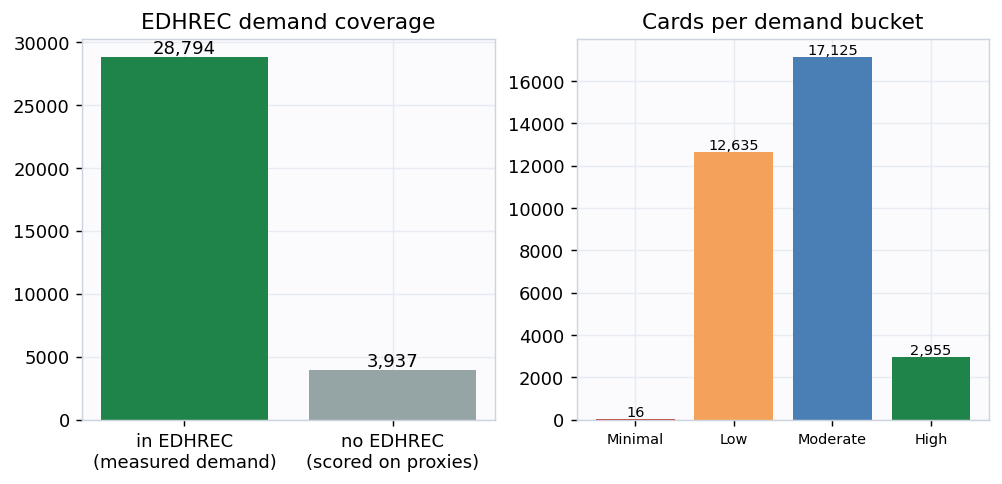
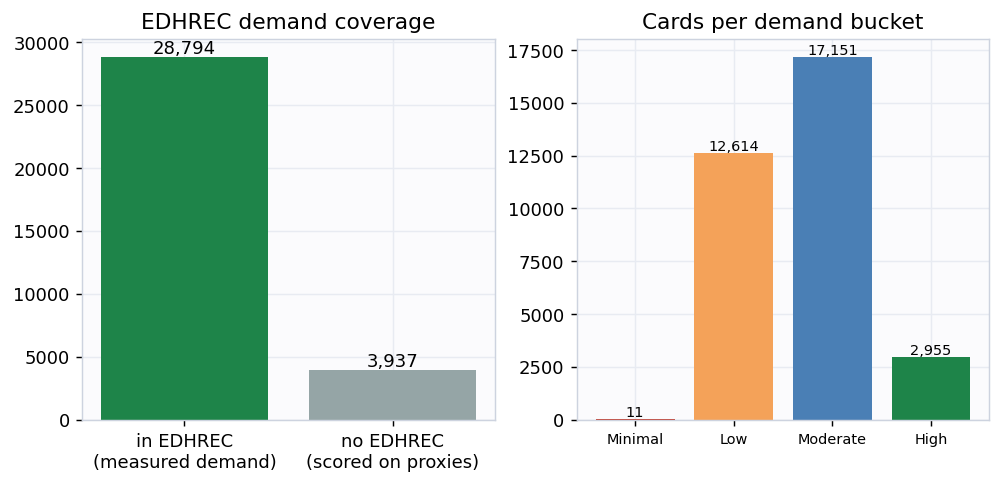
Residual-demand floor for Commander-banned chase cards
Banned cards (Mana Crypt, the Power 9, Jeweled Lotus, Dockside) now keep a discounted
floor from price level and breadth, so their surviving eternal-format and collector
demand lands them at the top of the Moderate band rather than in the basement. Updated
report, predictions, social, and track record. Composite weights and floor coefficients
remain private.

diff --git a/TechnicalPaper/REPORT.md b/TechnicalPaper/REPORT.md
@@ -43,10 +43,11 @@ imputed to a neutral level so it can nudge a score but never sink an established
 
 ## Does the score mean anything? Two honest checks
 
-**1. More-wanted cards command higher prices.** The price LEVEL is deliberately not an input to the
-score (only price appreciation is). Yet when cards are binned by demand decile, the median market
-price climbs steadily with demand (Spearman correlation **0.294**). The index lines
-up with what the market actually pays.
+**1. More-wanted cards command higher prices.** The price LEVEL is not a general input to the score
+(only price appreciation is, plus a residual floor for the small set of Commander-banned cards
+described below). Yet when cards are binned by demand decile, the median market price climbs steadily
+with demand (Spearman correlation **0.297**). The index lines up with what the market
+actually pays.
 
 ![Demand vs price](figures/fig2_demand_vs_price.png)
 
@@ -103,9 +104,9 @@ narrow, format-marginal pieces that almost no deck chooses to run.
 | Bucket | Score | Cards | Median price | Median EDHREC decks |
 |---|---|---|---|---|
 | High demand | 75-100 | 2,955 | $1.44 | 76,758 |
-| Moderate demand | 50-75 | 17,125 | $0.35 | 8,230 |
-| Low demand | 25-50 | 12,635 | $0.35 | 539 |
-| Minimal demand | 0-25 | 16 | $2.71 | 47 |
+| Moderate demand | 50-75 | 17,151 | $0.35 | 8,230 |
+| Low demand | 25-50 | 12,614 | $0.35 | 539 |
+| Minimal demand | 0-25 | 11 | $2.79 | 47 |
 
 ## How this plugs into the other signals
 
@@ -126,9 +127,14 @@ large price moves.
   EDHREC time-series, so it cannot yet tell a card that is climbing in popularity from one that is
   fading at the same level. A forward-looking "demand momentum" needs historical EDHREC snapshots
   that are not yet sourced.
-- **Bans show up as lost demand, once.** A Commander ban removes a card from EDHREC inclusion, so a
-  banned card loses its largest component and falls into the lower buckets. Cards banned only in
-  competitive formats (often for being too strong) carry no penalty, because that is not low demand.
+- **Bans reduce demand, but do not erase it.** A Commander ban removes a card from EDHREC inclusion,
+  so a banned card loses its largest demand component. Much of that demand survives in the eternal
+  formats and the collector market, though, which is revealed by the price the card still commands and
+  how widely it was printed. So Commander-banned cards keep a discounted residual-demand floor built
+  from price level and breadth, which lands still-coveted cards like Mana Crypt and the Power 9 at the
+  top of the Moderate band instead of in the basement, while genuinely dead banned cards (low price)
+  stay low. Cards banned only in competitive formats (often for being too strong) carry no penalty.
+  WotC-removed offensive cards are excluded from the floor so it never elevates them.
 - Roadmap: scrape MTGTop8 tournament decklists (metagame adoption), an EDHREC popularity time-series
   (demand momentum), and Banned and Restricted announcements (ban risk as forward negative demand).
   The printing table already carries `tcgplayer_id` for marketplace joins. A natural v2 is

diff --git a/README.md b/README.md
@@ -76,10 +76,10 @@ This is **version 1: a transparent composite index, not a black-box forecast**. 
 clean ground-truth label for "demand", so it does not claim a held-out accuracy number. Instead it is
 checked two honest ways (both in the technical report):
 
-1. **More-wanted cards command higher prices.** The price *level* is deliberately not an input to the
-   score (only price appreciation is). Yet when cards are binned by demand decile, the median market
-   price climbs steadily with demand (rank correlation about 0.29). The index lines up with what the
-   market actually pays.
+1. **More-wanted cards command higher prices.** The price *level* is not a general input to the score
+   (only price appreciation is, plus a residual floor for the small set of Commander-banned cards).
+   Yet when cards are binned by demand decile, the median market price climbs steadily with demand
+   (rank correlation about 0.30). The index lines up with what the market actually pays.
 2. **Independent signals agree (the real test).** EDHREC is 45% of the score, so "demand tracks
    EDHREC" would be trivially circular. So we build a second ranking from *only* the non-EDHREC
    signals (price demand, playability, breadth) and leave EDHREC out. The EDHREC deck count that
@@ -118,9 +118,11 @@ SHA-256 manifest so anyone can confirm later that we did not quietly rewrite his
   A forward-looking demand momentum is on the roadmap (it needs historical EDHREC snapshots).
 - EDHREC is a Commander-format signal. It is the best direct demand meter available for the secondary
   market, but it under-weights demand that lives mostly in competitive constructed formats.
-- A Commander ban shows up as lost demand: a banned card drops out of EDHREC and falls in the
-  ranking. Its residual high price (collectors, eternal formats) is a liquidity phenomenon, not
-  current play demand.
+- A Commander ban reduces demand but does not erase it. A banned card drops out of EDHREC and loses
+  its largest demand component, but much of the want survives in eternal formats and the collector
+  market, so banned cards keep a discounted residual-demand floor from their price level and breadth.
+  Still-coveted cards like Mana Crypt and the Power 9 land at the top of the Moderate band rather than
+  in the basement, while genuinely dead banned cards stay low.
 
 ## Disclaimer
 

diff --git a/track_record/MANIFEST.md b/track_record/MANIFEST.md
@@ -3,9 +3,10 @@
 Immutable dated snapshot of the Current Demand predictions. SHA-256 hashes let anyone
 verify later that this snapshot was not quietly rewritten.
 
+
 ## Snapshot date: 2026-06-01
 
 ```
-1e83cfb60416e99544054e660f8948d66a45b89824df9feb573911842791d1db  2026-06-01_predictions.csv
-cc777f5343811d02843874de560c48e0b3c1768d1b128136615abfebfc977a7d  2026-06-01_predictions.json
+f1cd062b8f96e6f3c0a80a62368072d7cf5a70e71b96f4020aa40fb05279cf1d  2026-06-01_predictions.csv
+2a5646f6bb23b5bc9548d5c3d0ea448ab5ce4a5da4885dab4fef1e5732815799  2026-06-01_predictions.json
 ```